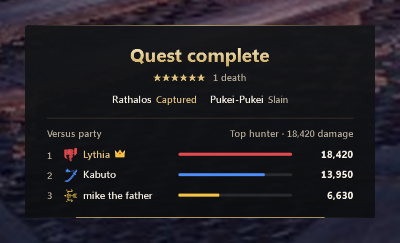
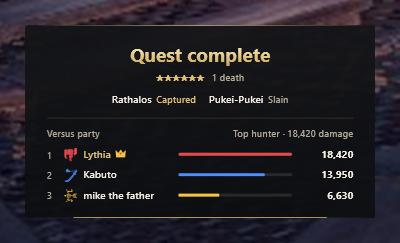
Sharper text (static Segoe UI, Ideal layout), quest clock as elapsed/left, no rank, lighter row fill, mantles as buff-sized tiles

diff --git a/SmartHunter/Ui/Resources/Default.xaml b/SmartHunter/Ui/Resources/Default.xaml
@@ -147,13 +147,15 @@
     <!--Typography-->
     <FontFamily x:Key="Roboto">pack://application:,,,/Ui/Fonts/#Roboto</FontFamily>
 
+    <!--Static Segoe UI with Ideal layout: WPF can't use the variable Segoe UI (SemiBold came out regular), and Display
+        layout snapped every glyph to whole pixels, which read as jagged over the game. Grayscale: layered windows
+        can't do ClearType.-->
     <Style x:Key="A_Style_TextBlock_Base" TargetType="{x:Type TextBlock}">
-        <Setter Property="FontFamily" Value="Segoe UI Variable Text, Segoe UI" />
+        <Setter Property="FontFamily" Value="Segoe UI" />
         <Setter Property="FontWeight" Value="SemiBold" />
         <Setter Property="Foreground" Value="{StaticResource B_Text}" />
         <Setter Property="TextOptions.TextRenderingMode" Value="Grayscale" />
-        <Setter Property="TextOptions.TextFormattingMode" Value="Display" />
-        <Setter Property="TextOptions.TextHintingMode" Value="Fixed" />
+        <Setter Property="TextOptions.TextFormattingMode" Value="Ideal" />
         <Setter Property="TextTrimming" Value="CharacterEllipsis" />
         <Setter Property="VerticalAlignment" Value="Center" />
     </Style>
@@ -313,31 +315,6 @@
                                 <PathFigure StartPoint="5,0">
                                     <ArcSegment SweepDirection="Clockwise" Size="5,5"
                                                 Point="{Binding Angle, ConverterParameter=5, Converter={StaticResource A_Converter_AngleToPoint}}"
-                                                IsLargeArc="{Binding Angle, Converter={StaticResource A_Converter_AngleToIsLargeArc}}" />
-                                </PathFigure>
-                            </PathGeometry>
-                        </Path.Data>
-                    </Path>
-                </Canvas>
-            </Grid>
-        </Viewbox>
-    </DataTemplate>
-
-    <!--The same ring with a hairline stroke, for an icon inside a small circle-->
-    <DataTemplate x:Key="A_DataTemplate_ThinRing" DataType="{x:Type coreData:Progress}">
-        <Viewbox>
-            <Grid Width="14" Height="14">
-                <Ellipse Width="13" Height="13" StrokeThickness="1" Stroke="{StaticResource B_Track}" />
-                <Canvas Width="0" Height="0" VerticalAlignment="Center" HorizontalAlignment="Center">
-                    <Canvas.RenderTransform>
-                        <TranslateTransform X="-6" Y="-6" />
-                    </Canvas.RenderTransform>
-                    <Path StrokeThickness="1" StrokeStartLineCap="Round" StrokeEndLineCap="Round" Stroke="{Binding Foreground, RelativeSource={RelativeSource AncestorType={x:Type ContentControl}}}">
-                        <Path.Data>
-                            <PathGeometry>
-                                <PathFigure StartPoint="6,0">
-                                    <ArcSegment SweepDirection="Clockwise" Size="6,6"
-                                                Point="{Binding Angle, ConverterParameter=6, Converter={StaticResource A_Converter_AngleToPoint}}"
                                                 IsLargeArc="{Binding Angle, Converter={StaticResource A_Converter_AngleToIsLargeArc}}" />
                                 </PathFigure>
                             </PathGeometry>
@@ -782,12 +759,10 @@
     </DataTemplate>
 
 
-    <!--Team Widget: one row per hunter, drawn straight onto the game. After HunterPie's damage meter: weapon, rank and
-        name, the share with an arrow for where it's heading, damage and damage per second. The row fills with the
+    <!--Team Widget: one row per hunter, drawn straight onto the game. After HunterPie's damage meter: weapon, name, the share with an arrow for where it's heading, damage and damage per second. The row fills with the
         hunter's colour as far as their damage reaches against the top hunter.-->
 
     <Geometry x:Key="G_Stopwatch">M6.5,0.5 L9.5,0.5 L9.5,2 L6.5,2 Z M8,3 A6,6 0 1 1 7.99,3 Z M8,4.6 A4.4,4.4 0 1 0 8.01,4.6 Z M7.3,6 L8.7,6 L8.7,9.6 L7.3,9.6 Z</Geometry>
-    <Geometry x:Key="G_Hourglass">M3,1 L13,1 L13,2.5 L3,2.5 Z M3,13.5 L13,13.5 L13,15 L3,15 Z M4,2.5 L12,2.5 C12,5.5 9.5,6.8 8.8,8 C9.5,9.2 12,10.5 12,13.5 L4,13.5 C4,10.5 6.5,9.2 7.2,8 C6.5,6.8 4,5.5 4,2.5 Z</Geometry>
     <GeometryGroup x:Key="G_Skull" FillRule="EvenOdd">
         <PathGeometry Figures="M8,1 C4.2,1 1.6,3.6 1.6,7 C1.6,9.1 2.6,10.6 4.2,11.5 L4.2,13.8 C4.2,14.5 4.7,15 5.4,15 L10.6,15 C11.3,15 11.8,14.5 11.8,13.8 L11.8,11.5 C13.4,10.6 14.4,9.1 14.4,7 C14.4,3.6 11.8,1 8,1 Z" />
         <EllipseGeometry Center="5.5,7.6" RadiusX="1.7" RadiusY="1.8" />
@@ -809,8 +784,8 @@
             <Rectangle x:Name="Fill" Grid.ColumnSpan="4" Margin="-6 0 0 0" behaviors:SmoothBar.Fraction="{Binding BarFraction}">
                 <Rectangle.OpacityMask>
                     <LinearGradientBrush StartPoint="0,0" EndPoint="1,0">
-                        <GradientStop Color="#59000000" Offset="0" />
-                        <GradientStop Color="#14000000" Offset="1" />
+                        <GradientStop Color="#33000000" Offset="0" />
+                        <GradientStop Color="#0A000000" Offset="1" />
                     </LinearGradientBrush>
                 </Rectangle.OpacityMask>
             </Rectangle>
@@ -831,14 +806,11 @@
                 <Ellipse x:Name="Dot" Width="7" Height="7" Visibility="Collapsed" />
             </Grid>
 
-            <!--Rank above the name. The Aether badge: party sync heard from this teammate's Aether.-->
-            <StackPanel x:Name="NameRow" Grid.Column="1" VerticalAlignment="Center" Margin="0 4 0 4">
-                <TextBlock x:Name="RankBlock" Text="{Binding Rank}" Style="{StaticResource T_Muted}" FontSize="11" />
-                <StackPanel Orientation="Horizontal">
-                    <TextBlock x:Name="NameBlock" Text="{Binding Name}" Style="{StaticResource T_Body}" MaxWidth="130" />
-                    <Image Source="pack://application:,,,/Ui/Aether.ico" Width="12" Height="12" Margin="5 0 0 0" VerticalAlignment="Center" RenderOptions.BitmapScalingMode="HighQuality"
-                           ToolTip="Also runs Aether" Visibility="{Binding UsesAether, Converter={StaticResource A_Converter_BoolToVisibility}}" />
-                </StackPanel>
+            <!--The Aether badge: party sync heard from this teammate's Aether-->
+            <StackPanel x:Name="NameRow" Grid.Column="1" Orientation="Horizontal" VerticalAlignment="Center" Margin="0 7 0 7">
+                <TextBlock x:Name="NameBlock" Text="{Binding Name}" Style="{StaticResource T_Body}" MaxWidth="130" />
+                <Image Source="pack://application:,,,/Ui/Aether.ico" Width="12" Height="12" Margin="5 0 0 0" VerticalAlignment="Center" RenderOptions.BitmapScalingMode="HighQuality"
+                       ToolTip="Also runs Aether" Visibility="{Binding UsesAether, Converter={StaticResource A_Converter_BoolToVisibility}}" />
             </StackPanel>
 
             <StackPanel x:Name="Share" Grid.Column="2" Orientation="Horizontal" VerticalAlignment="Center" Margin="12 0 0 0">
@@ -863,9 +835,6 @@
             <DataTrigger Binding="{Binding WeaponIcon}" Value="{x:Null}">
                 <Setter TargetName="WeaponIcon" Property="Visibility" Value="Collapsed" />
                 <Setter TargetName="Dot" Property="Visibility" Value="Visible" />
-            </DataTrigger>
-            <DataTrigger Binding="{Binding Rank}" Value="{x:Null}">
-                <Setter TargetName="RankBlock" Property="Visibility" Value="Collapsed" />
             </DataTrigger>
             <DataTrigger Binding="{Binding IsMe}" Value="True">
                 <Setter TargetName="NameBlock" Property="Foreground" Value="{StaticResource B_Accent}" />
@@ -1037,27 +1006,30 @@
         </DataTemplate.Triggers>
     </DataTemplate>
 
-    <!--Specialized tool (mantle, booster): icon in a ring with the time under it. Gold and draining while it's on;
-        dim and filling back up while it recharges.-->
+    <!--Specialized tool (mantle, booster): the buff row's icon and time, with a bar under them. Gold and draining
+        while it's on; dim and filling back up while it recharges.-->
     <DataTemplate DataType="{x:Type data:SpecializedTool}">
-        <StackPanel x:Name="Root" Orientation="Horizontal" Margin="0 0 16 0">
+        <StackPanel x:Name="Root" Margin="0 0 18 0">
             <StackPanel.RenderTransform>
                 <TranslateTransform />
             </StackPanel.RenderTransform>
-            <Grid Width="26" Height="26">
-                <ContentControl x:Name="Ring" Content="{Binding Ring}" ContentTemplate="{StaticResource A_DataTemplate_ThinRing}" Foreground="{StaticResource B_Accent}" />
-                <Image x:Name="Icon" Source="{Binding IconKey, Converter={StaticResource A_Converter_IconKeyToImage}}" Width="16" Height="16" />
+            <StackPanel Orientation="Horizontal">
+                <Image x:Name="Icon" Source="{Binding IconKey, Converter={StaticResource A_Converter_IconKeyToImage}}" Width="22" Height="22" />
+                <TextBlock x:Name="Time" Text="{Binding Seconds, Converter={StaticResource A_Converter_SecondsToClock}}" Style="{StaticResource T_Value}" MinWidth="0"
+                           Foreground="{StaticResource B_Accent}" Margin="7 0 0 0" />
+            </StackPanel>
+            <Grid Height="2" Margin="0 4 0 0">
+                <Rectangle Fill="{StaticResource B_Track}" />
+                <Rectangle x:Name="Bar" Fill="{StaticResource B_Accent}" behaviors:SmoothBar.Fraction="{Binding Ring.Fraction}" />
             </Grid>
-            <TextBlock x:Name="Time" Text="{Binding Seconds, Converter={StaticResource A_Converter_SecondsToClock}}" Style="{StaticResource T_Value}" MinWidth="0"
-                       Foreground="{StaticResource B_Accent}" VerticalAlignment="Center" Margin="7 0 0 0" />
         </StackPanel>
         <DataTemplate.Triggers>
             <EventTrigger RoutedEvent="FrameworkElement.Loaded">
                 <BeginStoryboard Storyboard="{StaticResource A_Storyboard_CellIn}" />
             </EventTrigger>
             <DataTrigger Binding="{Binding IsRecharging}" Value="True">
-                <Setter TargetName="Ring" Property="Foreground" Value="{StaticResource B_TextMuted}" />
-                <Setter TargetName="Icon" Property="Opacity" Value="0.45" />
+                <Setter TargetName="Bar" Property="Fill" Value="{StaticResource B_TextMuted}" />
+                <Setter TargetName="Icon" Property="Opacity" Value="0.5" />
                 <Setter TargetName="Time" Property="Foreground" Value="{StaticResource B_TextMuted}" />
             </DataTrigger>
         </DataTemplate.Triggers>
@@ -1266,8 +1238,7 @@
                     <StackPanel x:Name="Clock" Orientation="Horizontal" Visibility="Collapsed">
                         <Path Data="{StaticResource G_Stopwatch}" Fill="{StaticResource B_TextMuted}" Width="14" Height="15" Stretch="Uniform" VerticalAlignment="Center" Margin="0 0 6 0" />
                         <TextBlock Text="{Binding Clock}" Style="{StaticResource T_Value}" MinWidth="0" />
-                        <Path Data="{StaticResource G_Hourglass}" Fill="{StaticResource B_TextMuted}" Width="11" Height="15" Stretch="Uniform" VerticalAlignment="Center" Margin="16 0 6 0" />
-                        <TextBlock Text="{Binding ClockLimit}" Style="{StaticResource T_Muted}" VerticalAlignment="Center" />
+                        <TextBlock Text="{Binding ClockLeft, StringFormat=/{0}}" Style="{StaticResource T_Muted}" VerticalAlignment="Bottom" Margin="2 0 0 0" />
                     </StackPanel>
                     <StackPanel x:Name="Deaths" DockPanel.Dock="Right" Orientation="Horizontal" Visibility="Collapsed">
                         <Path Data="{StaticResource G_Skull}" Fill="{StaticResource B_TextMuted}" Width="14" Height="15" Stretch="Uniform" VerticalAlignment="Center" Margin="0 0 6 0" />

diff --git a/SmartHunter/Ui/Windows/ConsoleWindow.xaml b/SmartHunter/Ui/Windows/ConsoleWindow.xaml
@@ -14,8 +14,8 @@
         Icon="/Ui/Aether.ico"
         Title="Aether" Height="760" Width="600" MinWidth="460" MinHeight="420"
         Background="#111214" Foreground="#F3EDE0" WindowStyle="SingleBorderWindow" ResizeMode="CanResize"
-        FontFamily="Segoe UI Variable Text, Segoe UI" FontSize="13"
-        TextOptions.TextFormattingMode="Display" UseLayoutRounding="True">
+        FontFamily="Segoe UI" FontSize="13"
+        TextOptions.TextFormattingMode="Ideal" UseLayoutRounding="True">
 
     <WindowChrome.WindowChrome>
         <WindowChrome CaptionHeight="40" ResizeBorderThickness="6" GlassFrameThickness="0" CornerRadius="0" UseAeroCaptionButtons="False" />

diff --git a/SmartHunter/Game/Helpers/MhwHelper.cs b/SmartHunter/Game/Helpers/MhwHelper.cs
@@ -396,7 +396,7 @@ namespace SmartHunter.Game.Helpers
             return member == 0 ? "" : MemoryHelper.ReadString(process, member + 0x49, 32);
         }
 
-        // Weapon and rank for each quest member (party struct from HunterPie's map for build 421810)
+        // Weapon for each quest member (party struct from HunterPie's map for build 421810)
         public static void UpdatePartyDetails(Process process)
         {
             ulong root = MemoryHelper.Read<ulong>(process, 0x140000000UL + 0x05013530);
@@ -415,9 +415,6 @@ namespace SmartHunter.Game.Helpers
                 string memberName = MemoryHelper.ReadString(process, member + 0x49, 32);
                 var target = players.FirstOrDefault(p => p.Name == memberName);
                 if (String.IsNullOrEmpty(memberName) || target == null) continue;
-
-                // High rank, then master rank (HunterPie v2's MHWPartyMemberLevelStructure)
-                target.Rank = Player.FormatRank(MemoryHelper.Read<short>(process, member + 0x70), MemoryHelper.Read<short>(process, member + 0x72));
 
                 int weapon = MemoryHelper.Read<byte>(process, member + 0x7C);
                 if (memberName == game.CurrentPlayerName && s_WeaponTypeIds.TryGetValue(game.EquippedWeaponType, out var mine))
@@ -482,7 +479,7 @@ namespace SmartHunter.Game.Helpers
             bool inQuest = quest != 0 && MemoryHelper.Read<int>(process, quest + 0x54) == 2;
             bool clockOk = inQuest && limit > 0 && left >= 0 && left <= limit;
             hunt.Clock = clockOk ? HuntInfo.Format(limit - left) : null;
-            hunt.ClockLimit = clockOk ? HuntInfo.Format(limit) : null;
+            hunt.ClockLeft = clockOk ? HuntInfo.Format(left) : null;
             hunt.ElapsedSeconds = clockOk ? limit - left : 0;
 
             // Party deaths and the limit that fails the quest (HunterPie v2's MHWQuestDataStructure)

diff --git a/SmartHunter/Game/Data/ViewModels/OverlayViewModel.cs b/SmartHunter/Game/Data/ViewModels/OverlayViewModel.cs
@@ -164,9 +164,6 @@ namespace SmartHunter.Game.Data.ViewModels
             TeamWidget.Context.UpdateAndGetPlayer(2, "mike the father", 4310).WeaponIcon = "ICON_BOW";
             TeamWidget.Context.UpdateAndGetPlayer(1, "Kabuto", 16350).UsesAether = true;
             TeamWidget.Context.Players[2].IsDamagePartial = true; // no Aether: quest targets only
-            TeamWidget.Context.Players[0].Rank = "MR 124";
-            TeamWidget.Context.Players[1].Rank = "MR 37";
-            TeamWidget.Context.Players[2].Rank = "HR 49";
             DebugWidget.Context.CurrentGame.CurrentPlayerName = "Lythia";
             PlayerWidget.Context.Hunt.ElapsedSeconds = 754;
             PlayerWidget.Context.Hunt.Deaths = "1/3";
@@ -229,7 +226,7 @@ namespace SmartHunter.Game.Data.ViewModels
 
             PlayerWidget.Context.Sharpness.Update(new[] { 60, 100, 150, 200, 260, 0, 0 }, 230, 260);
             PlayerWidget.Context.Hunt.Clock = "12:34";
-            PlayerWidget.Context.Hunt.ClockLimit = "50:00";
+            PlayerWidget.Context.Hunt.ClockLeft = "37:26";
 
             CalloutWidget.Context.Callouts.Add(new MonsterCallout { Name = "Rathalos", IsCapturable = true, IsEnraged = true });
             CalloutWidget.Context.Callouts.Add(new MonsterCallout { Name = "Pukei-Pukei", IsExhausted = true });

diff --git a/SmartHunter/Game/Data/HuntInfo.cs b/SmartHunter/Game/Data/HuntInfo.cs
@@ -4,7 +4,7 @@ using SmartHunter.Core.Data;
 
 namespace SmartHunter.Game.Data
 {
-    // The quest clock (time elapsed, and the quest's limit for the Team widget) and the party's deaths. Null outside a quest.
+    // The quest clock (time elapsed, and time left for the Team widget) and the party's deaths. Null outside a quest.
     public class HuntInfo : Bindable
     {
         // For damage per second; 0 outside a quest
@@ -17,13 +17,13 @@ namespace SmartHunter.Game.Data
         string m_Clock;
         public string Clock { get { return m_Clock; } set { SetProperty(ref m_Clock, value); } }
 
-        string m_ClockLimit;
-        public string ClockLimit { get { return m_ClockLimit; } set { SetProperty(ref m_ClockLimit, value); } }
+        string m_ClockLeft;
+        public string ClockLeft { get { return m_ClockLeft; } set { SetProperty(ref m_ClockLeft, value); } }
 
         public void Clear()
         {
             Clock = null;
-            ClockLimit = null;
+            ClockLeft = null;
             Deaths = null;
             ElapsedSeconds = 0;
         }

diff --git a/SmartHunter/Core/SelfTest.cs b/SmartHunter/Core/SelfTest.cs
@@ -30,10 +30,7 @@ namespace SmartHunter.Core
             Check(!MhwHelper.IsDeathAction("nActEm001::DeadlyPoison"), "Deadly is not dead");
             Check(!MhwHelper.IsDeathAction(""), "unreadable action is not dead");
 
-            // Team widget: rank, deaths and the share trend
-            Check(Player.FormatRank(999, 24) == "MR 24", "master rank shows once there is one");
-            Check(Player.FormatRank(120, 0) == "HR 120", "high rank shows before master rank");
-            Check(Player.FormatRank(0, 0) == null && Player.FormatRank(-3, 4000) == null, "unread or garbage rank shows nothing");
+            // Team widget: deaths and the share trend
             Check(HuntInfo.FormatDeaths(1, 3) == "1/3", "deaths read as 1/3");
             Check(HuntInfo.FormatDeaths(0, 0) == null && HuntInfo.FormatDeaths(4, 3) == null, "no limit or more deaths than the limit is garbage");
             Check(Player.TrendOf(0.40f, 0.45f) == 1 && Player.TrendOf(0.45f, 0.40f) == -1, "share rising or falling shows an arrow");

diff --git a/SmartHunter/Game/Data/Player.cs b/SmartHunter/Game/Data/Player.cs
@@ -92,21 +92,6 @@ namespace SmartHunter.Game.Data
 
         public DateTime LastHitTime { get; private set; }
 
-        // "MR 24", or "HR 120" before master rank; null until the party struct has it
-        string m_Rank;
-        public string Rank
-        {
-            get { return m_Rank; }
-            set { SetProperty(ref m_Rank, value); }
-        }
-
-        public static string FormatRank(int highRank, int masterRank)
-        {
-            if (masterRank > 0 && masterRank <= 999)
-                return "MR " + masterRank;
-            return highRank > 0 && highRank <= 999 ? "HR " + highRank : null;
-        }
-
         // Damage per second of quest time; 0 outside a quest
         float m_Dps;
         public float Dps

diff --git a/SmartHunter/Game/Data/SpecializedTool.cs b/SmartHunter/Game/Data/SpecializedTool.cs
@@ -2,7 +2,7 @@ using SmartHunter.Core.Data;
 
 namespace SmartHunter.Game.Data
 {
-    // A mantle or booster in use: one tile that drains while it's on and fills back up while it recharges
+    // A mantle or booster in use: one tile whose bar drains while it's on and fills back up while it recharges
     public class SpecializedTool : Bindable
     {
         // The tool's name id without "RECHARGE_", shared by its two timers

diff --git a/SmartHunter/Core/Windows/LayoutEditor.cs b/SmartHunter/Core/Windows/LayoutEditor.cs
@@ -147,7 +147,7 @@ namespace SmartHunter.Core.Windows
 
             var stack = new StackPanel { HorizontalAlignment = HorizontalAlignment.Center };
             stack.Children.Add(card);
-            TextOptions.SetTextFormattingMode(stack, TextFormattingMode.Display);
+            TextOptions.SetTextFormattingMode(stack, TextFormattingMode.Ideal);
             return stack;
         }
 

diff --git a/README.md b/README.md
@@ -64,8 +64,8 @@ To remove it, uninstall it like any app: **Settings > Apps**, or Control Panel. 
 
 <img src="docs/team-widget.png" alt="Team damage widget" align="right" width="340"/>
 
-- Quest clock, time limit and party deaths (`1/3`) at the top
-- For up to 4 hunters: weapon, rank, damage, damage per second and share of the party's damage
+- Quest clock with time left, and party deaths (`1/3`) at the top
+- For up to 4 hunters: weapon, damage, damage per second and share of the party's damage
 - A green or red arrow while a hunter's share is rising or falling; each row fills with their colour
 - Counts **every monster**, including expeditions, when your friends run Aether too
 - The Aether logo next to a name means that hunter runs Aether too. A `~` means only their quest-target damage is known, and `—` means
@@ -79,7 +79,7 @@ To remove it, uninstall it like any app: **Settings > Apps**, or Control Panel. 
 
 - Quest clock
 - Sharpness with hits left until the next level
-- **Mantles and boosters** as rings: gold and draining while on, grey and filling back up while they recharge
+- **Mantles and boosters** with time left and a bar: gold and draining while on, grey and filling back up while they recharge
 - Buffs, debuffs and weapon timers (Charge Blade, Insect Glaive, Long Sword, Switch Axe) with time left
 
 <br clear="right"/>
